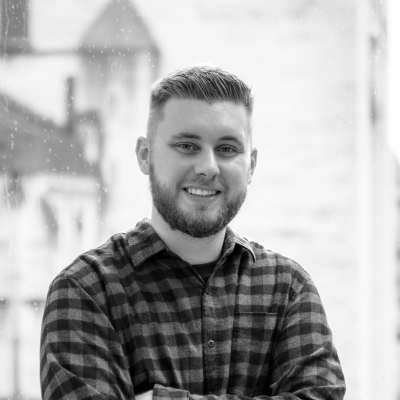
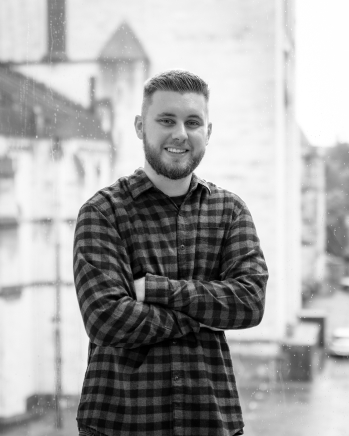
klkl

diff --git a/style.css b/style.css
@@ -50,7 +50,7 @@ body::-webkit-scrollbar-track {
    ========================================================================== */
 
 h1 {
-  font-size: 40px;
+  font-size: 48px;
   font-family: Big Shoulders Text;
   font-weight: 900;
   line-height: 115%;
@@ -94,7 +94,7 @@ hr {
    ========================================================================== */
 
 button {
-  padding: 12px 24px;
+  padding: 16px 32px;
   border: none;
   cursor: pointer;
   outline: inherit;
@@ -173,15 +173,14 @@ header {
 }
 
 .home {
-  margin-bottom: 96px;
-  margin-top: 96px;
+  margin-bottom: 128px;
+  margin-top: 128px;
 }
 
 .portrait {
-  width: 186px;
-  height: 186px;
-  border-radius: 8px;
-  border: 1px solid var(--ui-200, #D6D6D6);
+  width: 350px;
+  height: 436px;
+  border-radius: 16px;
 }
 
 
@@ -191,9 +190,8 @@ header {
   margin-right: auto;
 }
 
-.project-header {
-  margin-left: auto;
-  margin-right: auto;
+.project-header h1 {
+  font-size: 40px;
 }
 
 
@@ -204,7 +202,7 @@ header {
 
 
 .home p {
-  max-width: 800px;
+  width: 100%;
 }
 
 
@@ -216,7 +214,7 @@ header {
 
 
 header h1 {
-  margin-bottom: 0px
+  margin-bottom: 0px;
 }
 
 
@@ -453,7 +451,7 @@ footer i {
   display: grid;
   grid-template-columns: 1fr 1fr 1fr;
   grid-template-rows: 1fr 1fr;
-  gap: 32px 32px;
+  gap: 48px 48px;
 }
 
 
@@ -466,7 +464,7 @@ footer i {
   border: 1px solid var(--ui-1000, #D6D6D6);
   background: var(--ui-0, #FFF);
   position: relative;
-  border-radius: 8px;
+  border-radius: 16px;
   overflow: hidden;
 }
 
@@ -493,7 +491,7 @@ footer i {
 }
 
 
-.view {
+.view{
   width: 100%;
 }
 
@@ -625,7 +623,7 @@ footer i {
 figcaption,
 .project-header .header-content {
   width: 100%;
-  max-width: 880px;
+  max-width: 600px;
   margin-left: auto;
   margin-right: auto;
 }
@@ -638,6 +636,8 @@ figcaption,
 }
 
 .home-header-content {
+  max-width: 600px;
+  width: 100%;
   gap: 16px;
   display: flex;
   flex-direction: column;
@@ -647,7 +647,7 @@ figcaption,
 .home .header-content {
   display: flex;
   flex-direction: row;
-  gap: 64px;
+  gap: 96px;
   align-items: center;
 }
 
@@ -672,7 +672,7 @@ figcaption,
 
 .project-paragraph-list-item h3 {
   font-family: Inter;
-  font-size: 16px;
+  font-size: 15px;
   font-weight: 600;
   margin-bottom: 4px;
   line-height: 150%;
@@ -790,6 +790,7 @@ figcaption {
   .project-grid {
     grid-template-columns: repeat(2, 1fr);
     grid-template-rows: repeat(3, 1fr);
+      gap: 32px 32px;
   }
 
   .content-container {
@@ -876,8 +877,8 @@ figcaption {
   }
 
   .home {
-    margin-bottom: 64px;
-    margin-top: 64px;
+    margin-bottom: 96px;
+    margin-top: 96px;
   }
   
   .partner-wrapper {
